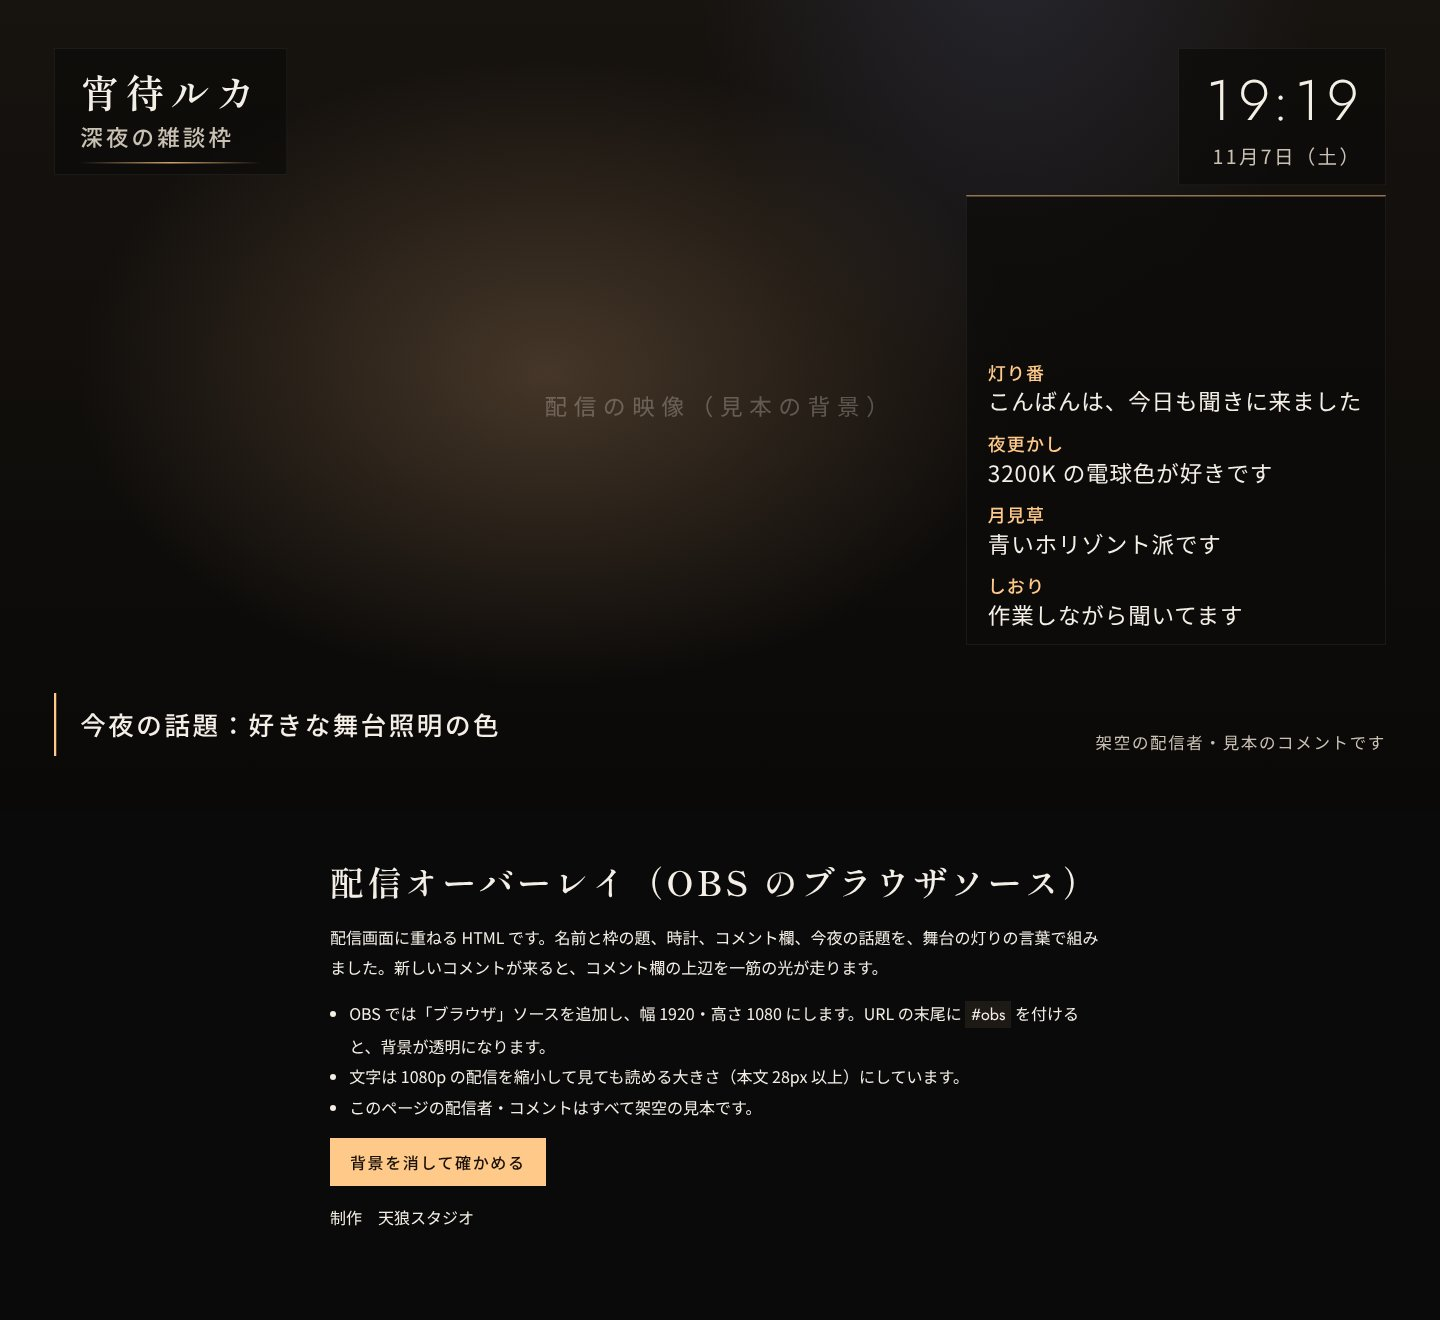
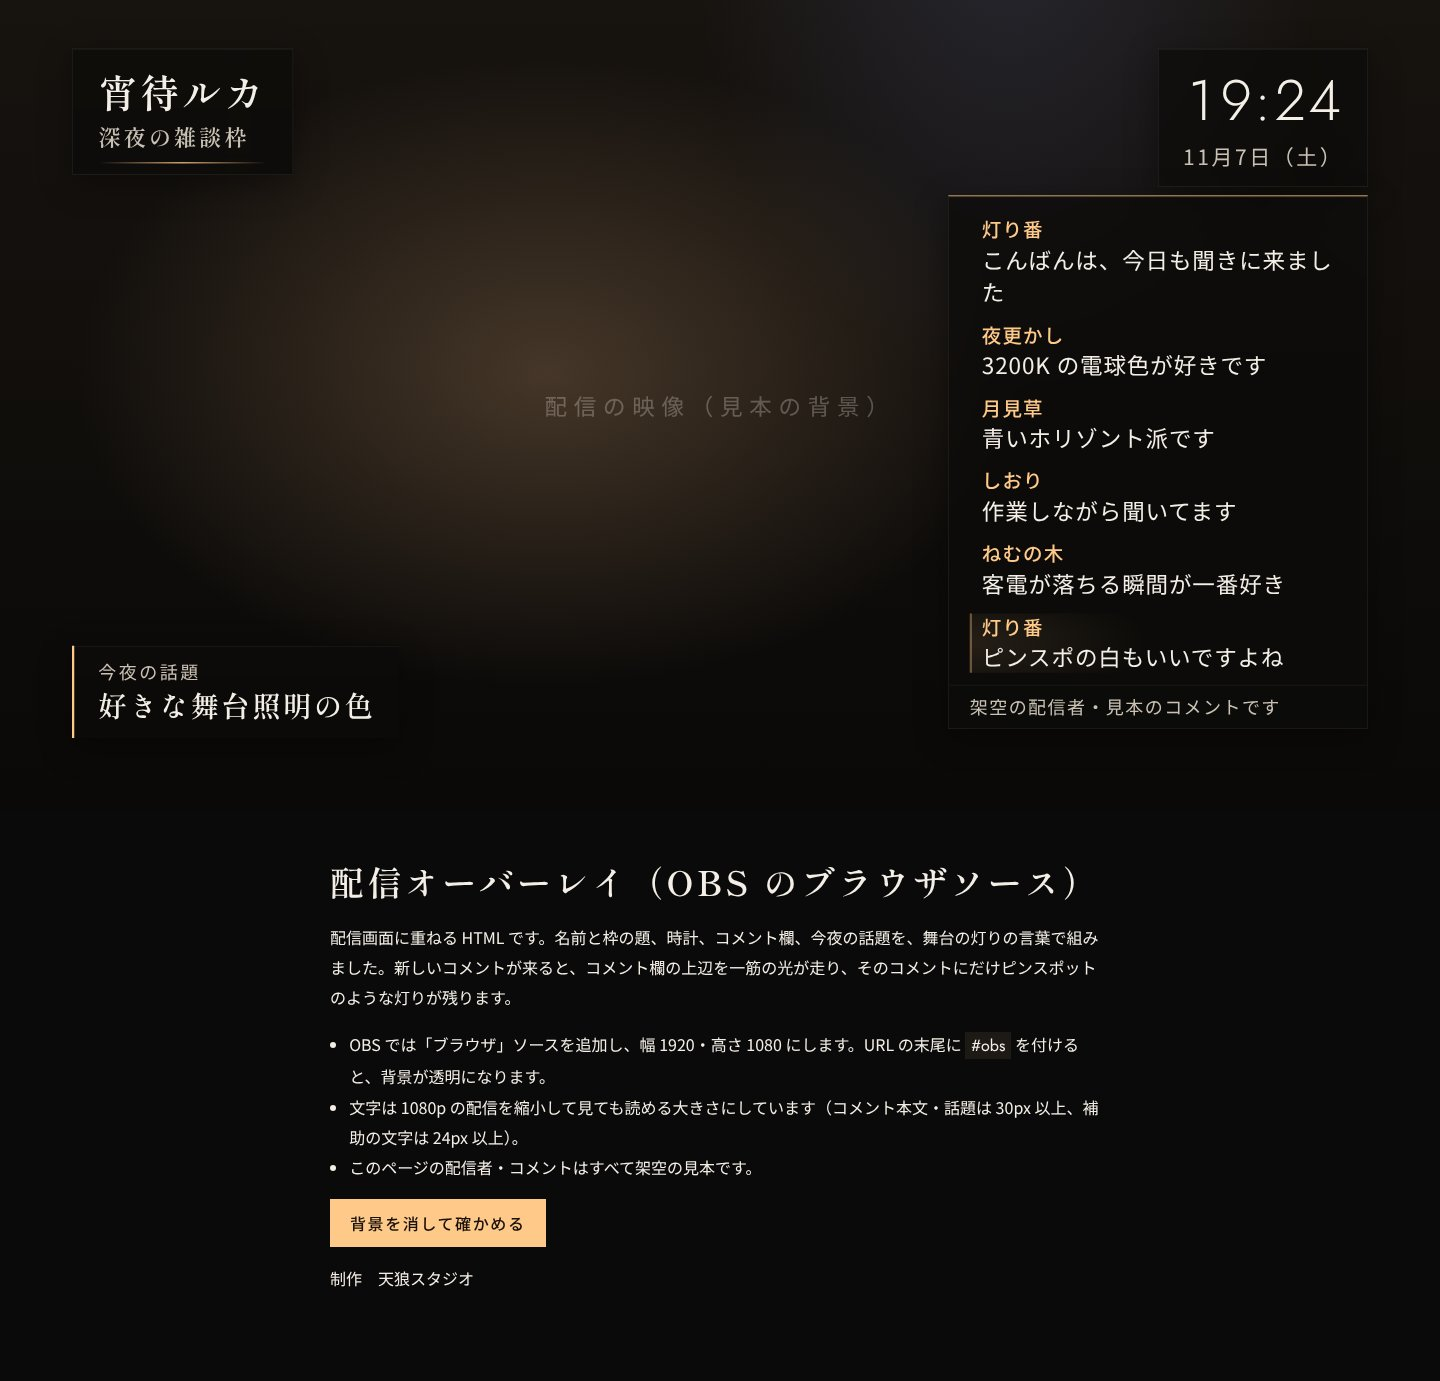
S10-03：1回目審査（5.00、critical）の指摘を反映（#obs で html の背景も透明に、注記をコメント欄の内側へ、左右の余白を 96px、FLIP でコメントの移動を補間、最新のコメントにピンスポの灯り、話題と枠題を明朝に、文字サイズの下限 24px、板の質感、背景を消したときは市松模様）
Claude-Session: https://claude.ai/code/session_01BwmUGTgfPEj1Tu5124aDtq

diff --git a/studio/projects/S10-03-overlay/site/style.css b/studio/projects/S10-03-overlay/site/style.css
@@ -20,31 +20,40 @@ html, body { margin: 0; background: var(--bg); color: var(--ink); font-family: v
   radial-gradient(600px 900px at 70% -10%, rgba(120, 140, 210, .16), transparent 70%),
   linear-gradient(#17130f, #0a0908); }
 .bg::after { content: "配信の映像（見本の背景）"; position: absolute; left: 50%; top: 50%; transform: translate(-50%, -50%); font: 400 30px/1 var(--sans); letter-spacing: .3em; color: rgba(243, 238, 230, .28); }
-body.obs, body.obs .frame { background: transparent; }
+html.obs, html.obs body, body.obs .frame { background: transparent !important; }
 body.obs .bg { display: none; }
 
-.name { position: absolute; left: 72px; top: 64px; padding: 26px 34px 30px; background: var(--glass); border: 1px solid rgba(255, 255, 255, .08); }
-.who { margin: 0; font: 600 52px/1.2 var(--mincho); letter-spacing: .16em; }
-.ttl { margin: 10px 0 0; font: 500 30px/1.3 var(--sans); letter-spacing: .14em; color: var(--sub); }
-.rule { position: absolute; left: 34px; right: 34px; bottom: 14px; height: 2px; background: linear-gradient(90deg, transparent, var(--warm), transparent); opacity: .8; }
+.name, .clock, .chat, .topic { box-shadow: inset 0 1px 0 rgba(255,236,210,.10), 0 12px 40px rgba(0,0,0,.35); backdrop-filter: blur(6px); }
+.name { position: absolute; left: 96px; top: 64px; padding: 26px 34px 30px; background: var(--glass); border: 1px solid rgba(255, 255, 255, .08); }
+.who { margin: 0; font: 600 52px/1.2 var(--mincho); letter-spacing: .08em; }
+.ttl { margin: 10px 0 0; font: 600 30px/1.3 var(--mincho); letter-spacing: .12em; color: var(--sub); }
+.rule { position: absolute; left: 34px; right: 34px; bottom: 14px; height: 2px; background: linear-gradient(90deg, transparent, var(--warm), transparent); opacity: .8; animation: breathe 60s ease-in-out infinite; }
+@keyframes breathe { 0%, 86%, 100% { opacity: .8; } 93% { opacity: 1; } }
 
-.clock { position: absolute; right: 72px; top: 64px; text-align: right; padding: 22px 32px; background: var(--glass); border: 1px solid rgba(255, 255, 255, .08); }
+.clock { position: absolute; right: 96px; top: 64px; text-align: right; padding: 22px 32px; background: var(--glass); border: 1px solid rgba(255, 255, 255, .08); }
 .hm { margin: 0; font: 300 76px/1.25 var(--latin); letter-spacing: .04em; font-variant-numeric: tabular-nums; }
-.date { margin: 8px 0 0; font: 400 26px/1.3 var(--sans); letter-spacing: .12em; color: var(--sub); }
+.date { margin: 8px 0 0; font: 400 28px/1.3 var(--sans); letter-spacing: .12em; color: var(--sub); }
 
-.chat { position: absolute; right: 72px; top: 260px; width: 560px; height: 600px; background: var(--glass); border: 1px solid rgba(255, 255, 255, .08); border-top: 2px solid var(--line); overflow: hidden; }
+.chat { position: absolute; right: 96px; top: 260px; width: 560px; height: 712px; background: var(--glass); border: 1px solid rgba(255, 255, 255, .08); border-top: 2px solid var(--line); overflow: hidden; }
 .sweep { position: absolute; top: -2px; left: -40%; width: 40%; height: 2px; background: linear-gradient(90deg, transparent, #fff3e0, transparent); opacity: 0; }
 .sweep.go { animation: sweep 1.1s cubic-bezier(.65, 0, .35, 1); }
 @keyframes sweep { 0% { left: -40%; opacity: 1; } 100% { left: 100%; opacity: 1; } }
-#chat { list-style: none; margin: 0; padding: 18px 28px; position: absolute; left: 0; right: 0; bottom: 0; display: flex; flex-direction: column; gap: 18px; }
-#chat li { display: grid; gap: 2px; }
-#chat .u { font: 500 24px/1.3 var(--sans); color: var(--warm); letter-spacing: .06em; }
+#chat { list-style: none; margin: 0; padding: 18px 28px; position: absolute; left: 0; right: 0; bottom: 56px; display: flex; flex-direction: column; gap: 18px; }
+#chat li { position: relative; display: grid; gap: 2px; padding-left: 16px; }
+#chat li::before { content: ""; position: absolute; left: 0; top: 0; bottom: 0; width: 3px; background: var(--warm); opacity: 0; }
+#chat li.lit::before { animation: pin 1.4s cubic-bezier(.65,0,.35,1) forwards; }
+#chat li.lit { background: radial-gradient(240px 80px at 0 50%, rgba(255,201,138,.10), transparent); }
+@keyframes pin { 0% { opacity: 0; } 13% { opacity: 1; } 100% { opacity: .35; } }
+#chat li.out { transition: opacity .36s ease, transform .36s ease; opacity: 0; transform: translateY(-12px); }
+#chat .u { font: 500 26px/1.3 var(--sans); color: var(--warm); letter-spacing: .06em; }
 #chat .m { font: 400 30px/1.45 var(--sans); letter-spacing: .04em; }
 #chat li.new { animation: rise .6s cubic-bezier(.22, 1, .36, 1); }
 @keyframes rise { from { transform: translateY(24px); opacity: 0; } to { transform: none; opacity: 1; } }
 
-.topic { position: absolute; left: 72px; bottom: 72px; margin: 0; padding: 20px 32px; background: var(--glass); border-left: 3px solid var(--warm); font: 500 34px/1.3 var(--sans); letter-spacing: .1em; }
-.sample { position: absolute; right: 72px; bottom: 80px; margin: 0; font: 400 22px/1 var(--sans); letter-spacing: .1em; color: var(--sub); }
+.topic { position: absolute; left: 96px; bottom: 96px; margin: 0; padding: 18px 32px 20px; background: var(--glass); border-left: 3px solid var(--warm); display: grid; gap: 4px; }
+.topic .k { font: 400 24px/1.3 var(--sans); letter-spacing: .14em; color: var(--sub); }
+.topic .v { font: 600 38px/1.3 var(--mincho); letter-spacing: .08em; }
+.sample { position: absolute; left: 0; right: 0; bottom: 0; margin: 0; padding: 12px 28px 14px; font: 400 24px/1.3 var(--sans); letter-spacing: .08em; color: var(--sub); border-top: 1px solid rgba(255,255,255,.08); background: rgba(12,11,10,.6); }
 
 .about { max-width: 820px; margin: 0 auto; padding: 48px max(20px, env(safe-area-inset-right, 0px)) 72px max(20px, env(safe-area-inset-left, 0px)); line-height: 1.9; }
 .about h1 { font: 600 clamp(24px, 4vw, 34px)/1.4 var(--mincho); letter-spacing: .1em; margin: 0 0 16px; }
@@ -55,4 +64,5 @@ body.obs .bg { display: none; }
 #toggle:focus-visible { outline: 2px solid var(--ink); outline-offset: 3px; }
 .credit { color: var(--sub); font-size: 14px; }
 body.obs .about { display: none; }
-@media (prefers-reduced-motion: reduce) { .sweep.go, #chat li.new { animation: none; } }
+body.preview-clear .frame { background: repeating-conic-gradient(#1a1a1a 0 25%, #262626 0 50%) 0 0 / 48px 48px; }
+@media (prefers-reduced-motion: reduce) { .sweep.go, #chat li.new, #chat li.lit::before, .rule { animation: none; } #chat li.lit::before { opacity: .35; } #chat li.out { transition: none; } }

diff --git a/studio/projects/S10-03-overlay/site/app.js b/studio/projects/S10-03-overlay/site/app.js
@@ -1,9 +1,9 @@
 // 配信オーバーレイ：時計、名前、話題、見本のコメント（一定間隔で流れる）。#obs で背景を透明にする
 import { F } from './data.js';
 const $ = id => document.getElementById(id);
-$('who').textContent = F.streamer; $('ttl').textContent = F.stream_title; $('topic').textContent = F.segment;
+$('who').textContent = F.streamer; $('ttl').textContent = F.stream_title; $('topic').textContent = F.segment.replace(/^今夜の話題[：:]\s*/, '');
 const obs = location.hash === '#obs';
-document.body.classList.toggle('obs', obs);
+document.body.classList.toggle('obs', obs); document.documentElement.classList.toggle('obs', obs);
 // 1920×1080 の舞台を画面の幅に合わせて縮める（OBS では等倍）
 const frame = $('frame'), stage = $('stage');
 const fit = () => { const s = obs ? 1 : Math.min(1, frame.clientWidth / F.canvas.w); stage.style.transform = `scale(${s})`; frame.style.height = (F.canvas.h * s) + 'px'; };
@@ -14,16 +14,26 @@ const tick = () => { const d = new Date(); $('hm').textContent = `${String(d.get
 tick(); setInterval(tick, 1000);
 // 見本のコメント：最初に4件、以後 4.5 秒ごとに1件ずつ。最大6件を表示
 const list = $('chat'); let i = 0;
+const reduceM = matchMedia('(prefers-reduced-motion: reduce)').matches;
 const push = (anim) => {
   const [u, m] = F.sample_comments[i % F.sample_comments.length]; i++;
   const li = document.createElement('li'); li.dataset.id = 'c' + i;
   const a = document.createElement('span'); a.className = 'u'; a.textContent = u;
   const b = document.createElement('span'); b.className = 'm'; b.textContent = m;
-  li.append(a, b); if (anim) li.classList.add('new'); list.append(li);
-  while (list.children.length > 6) list.firstElementChild.remove();
-  if (anim) { const s = $('sweep'); s.classList.remove('go'); void s.offsetWidth; s.classList.add('go'); }
+  li.append(a, b);
+  // FLIP：追加前の位置を覚え、追加後の差分を補間して動かす。あふれた1件は先に消す
+  const before = new Map([...list.children].map(el => [el, el.getBoundingClientRect().top]));
+  if (list.children.length >= 6) { const old = list.firstElementChild; if (anim && !reduceM) { old.classList.add('out'); setTimeout(() => old.remove(), 360); old.style.position = 'absolute'; old.style.visibility = 'hidden'; } else old.remove(); }
+  list.querySelectorAll('li.lit').forEach(el => el.classList.remove('lit'));
+  list.append(li); li.classList.add('lit');
+  if (anim && !reduceM) {
+    const sc = stage.getBoundingClientRect().width / F.canvas.w || 1;
+    for (const [el, top] of before) { if (!el.isConnected || el.classList.contains('out')) continue; const dy = (top - el.getBoundingClientRect().top) / sc; el.style.transition = 'none'; el.style.transform = `translateY(${dy}px)`; requestAnimationFrame(() => requestAnimationFrame(() => { el.style.transition = 'transform .48s cubic-bezier(.22,1,.36,1)'; el.style.transform = ''; })); }
+    li.style.animationDelay = '.08s'; li.classList.add('new');
+    const s = $('sweep'); s.classList.remove('go'); void s.offsetWidth; s.classList.add('go');
+  }
 };
-for (let k = 0; k < 4; k++) push(false);
+for (let k = 0; k < 6; k++) push(false);
 setInterval(() => push(true), 4500);
 // プレビューで背景を消して確かめる
 const t = $('toggle');

diff --git a/studio/projects/S10-03-overlay/site/index.html b/studio/projects/S10-03-overlay/site/index.html
@@ -25,17 +25,17 @@
     <section class="chat" aria-label="コメント">
       <span class="sweep" id="sweep" aria-hidden="true"></span>
       <ol id="chat" aria-live="off"></ol>
+      <p class="sample">架空の配信者・見本のコメントです</p>
     </section>
-    <p class="topic" id="topic"></p>
-    <p class="sample">架空の配信者・見本のコメントです</p>
+    <p class="topic"><span class="k">今夜の話題</span><span class="v" id="topic"></span></p>
   </div>
 </div>
 <main class="about">
   <h1>配信オーバーレイ（OBS のブラウザソース）</h1>
-  <p>配信画面に重ねる HTML です。名前と枠の題、時計、コメント欄、今夜の話題を、舞台の灯りの言葉で組みました。新しいコメントが来ると、コメント欄の上辺を一筋の光が走ります。</p>
+  <p>配信画面に重ねる HTML です。名前と枠の題、時計、コメント欄、今夜の話題を、舞台の灯りの言葉で組みました。新しいコメントが来ると、コメント欄の上辺を一筋の光が走り、そのコメントにだけピンスポットのような灯りが残ります。</p>
   <ul>
     <li>OBS では「ブラウザ」ソースを追加し、幅 1920・高さ 1080 にします。URL の末尾に <code>#obs</code> を付けると、背景が透明になります。</li>
-    <li>文字は 1080p の配信を縮小して見ても読める大きさ（本文 28px 以上）にしています。</li>
+    <li>文字は 1080p の配信を縮小して見ても読める大きさにしています（コメント本文・話題は 30px 以上、補助の文字は 24px 以上）。</li>
     <li>このページの配信者・コメントはすべて架空の見本です。</li>
   </ul>
   <p><button type="button" id="toggle" aria-pressed="false">背景を消して確かめる</button></p>
